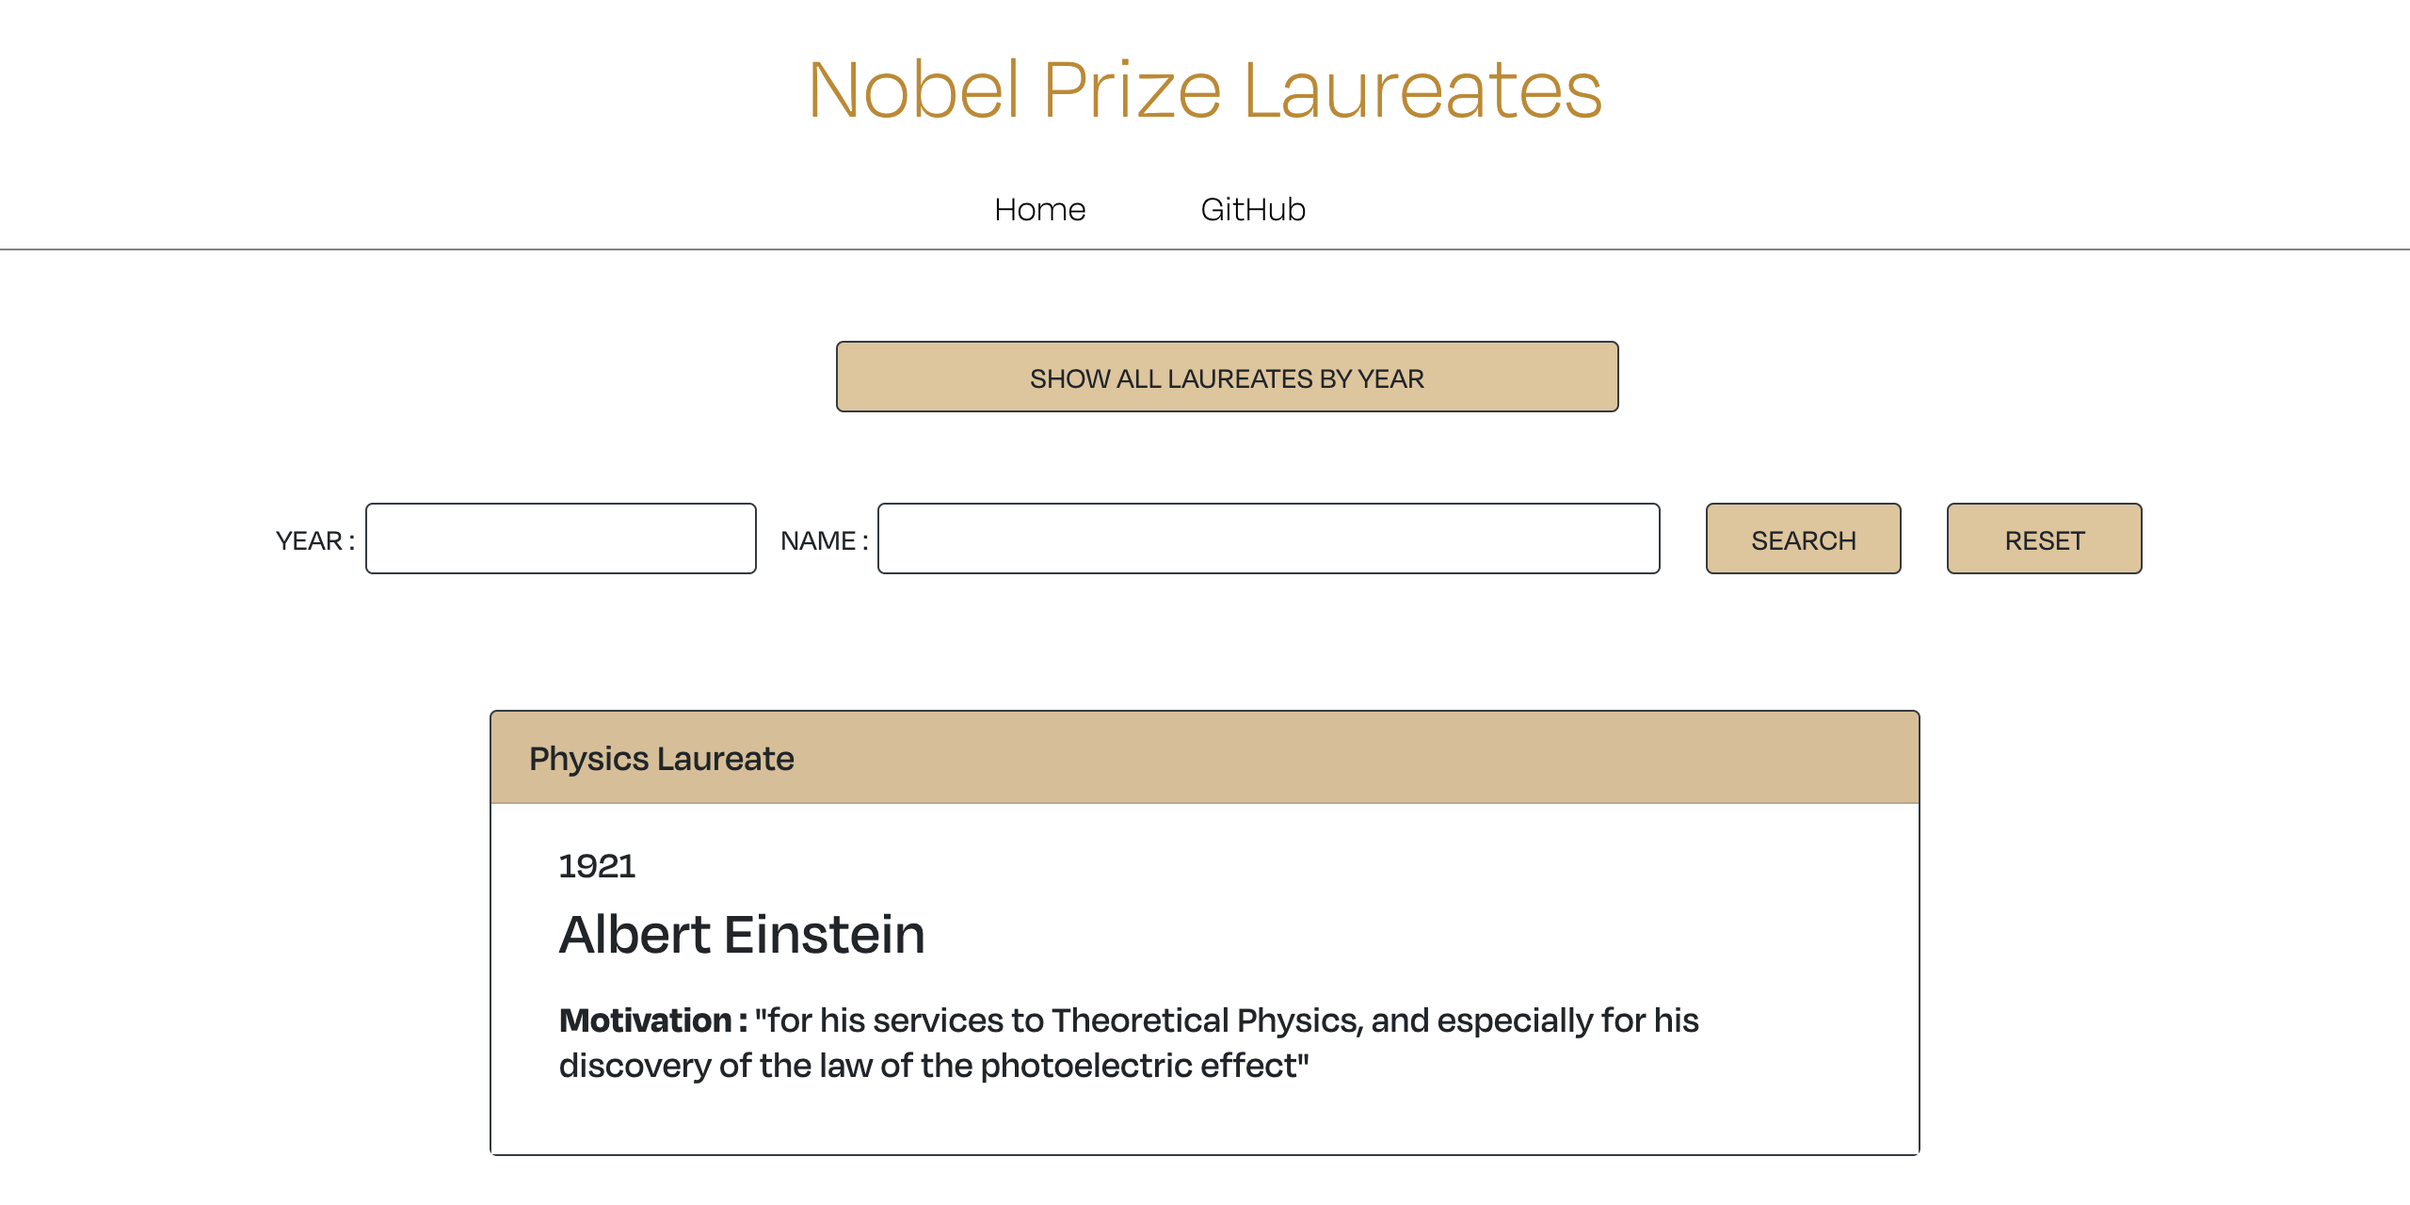
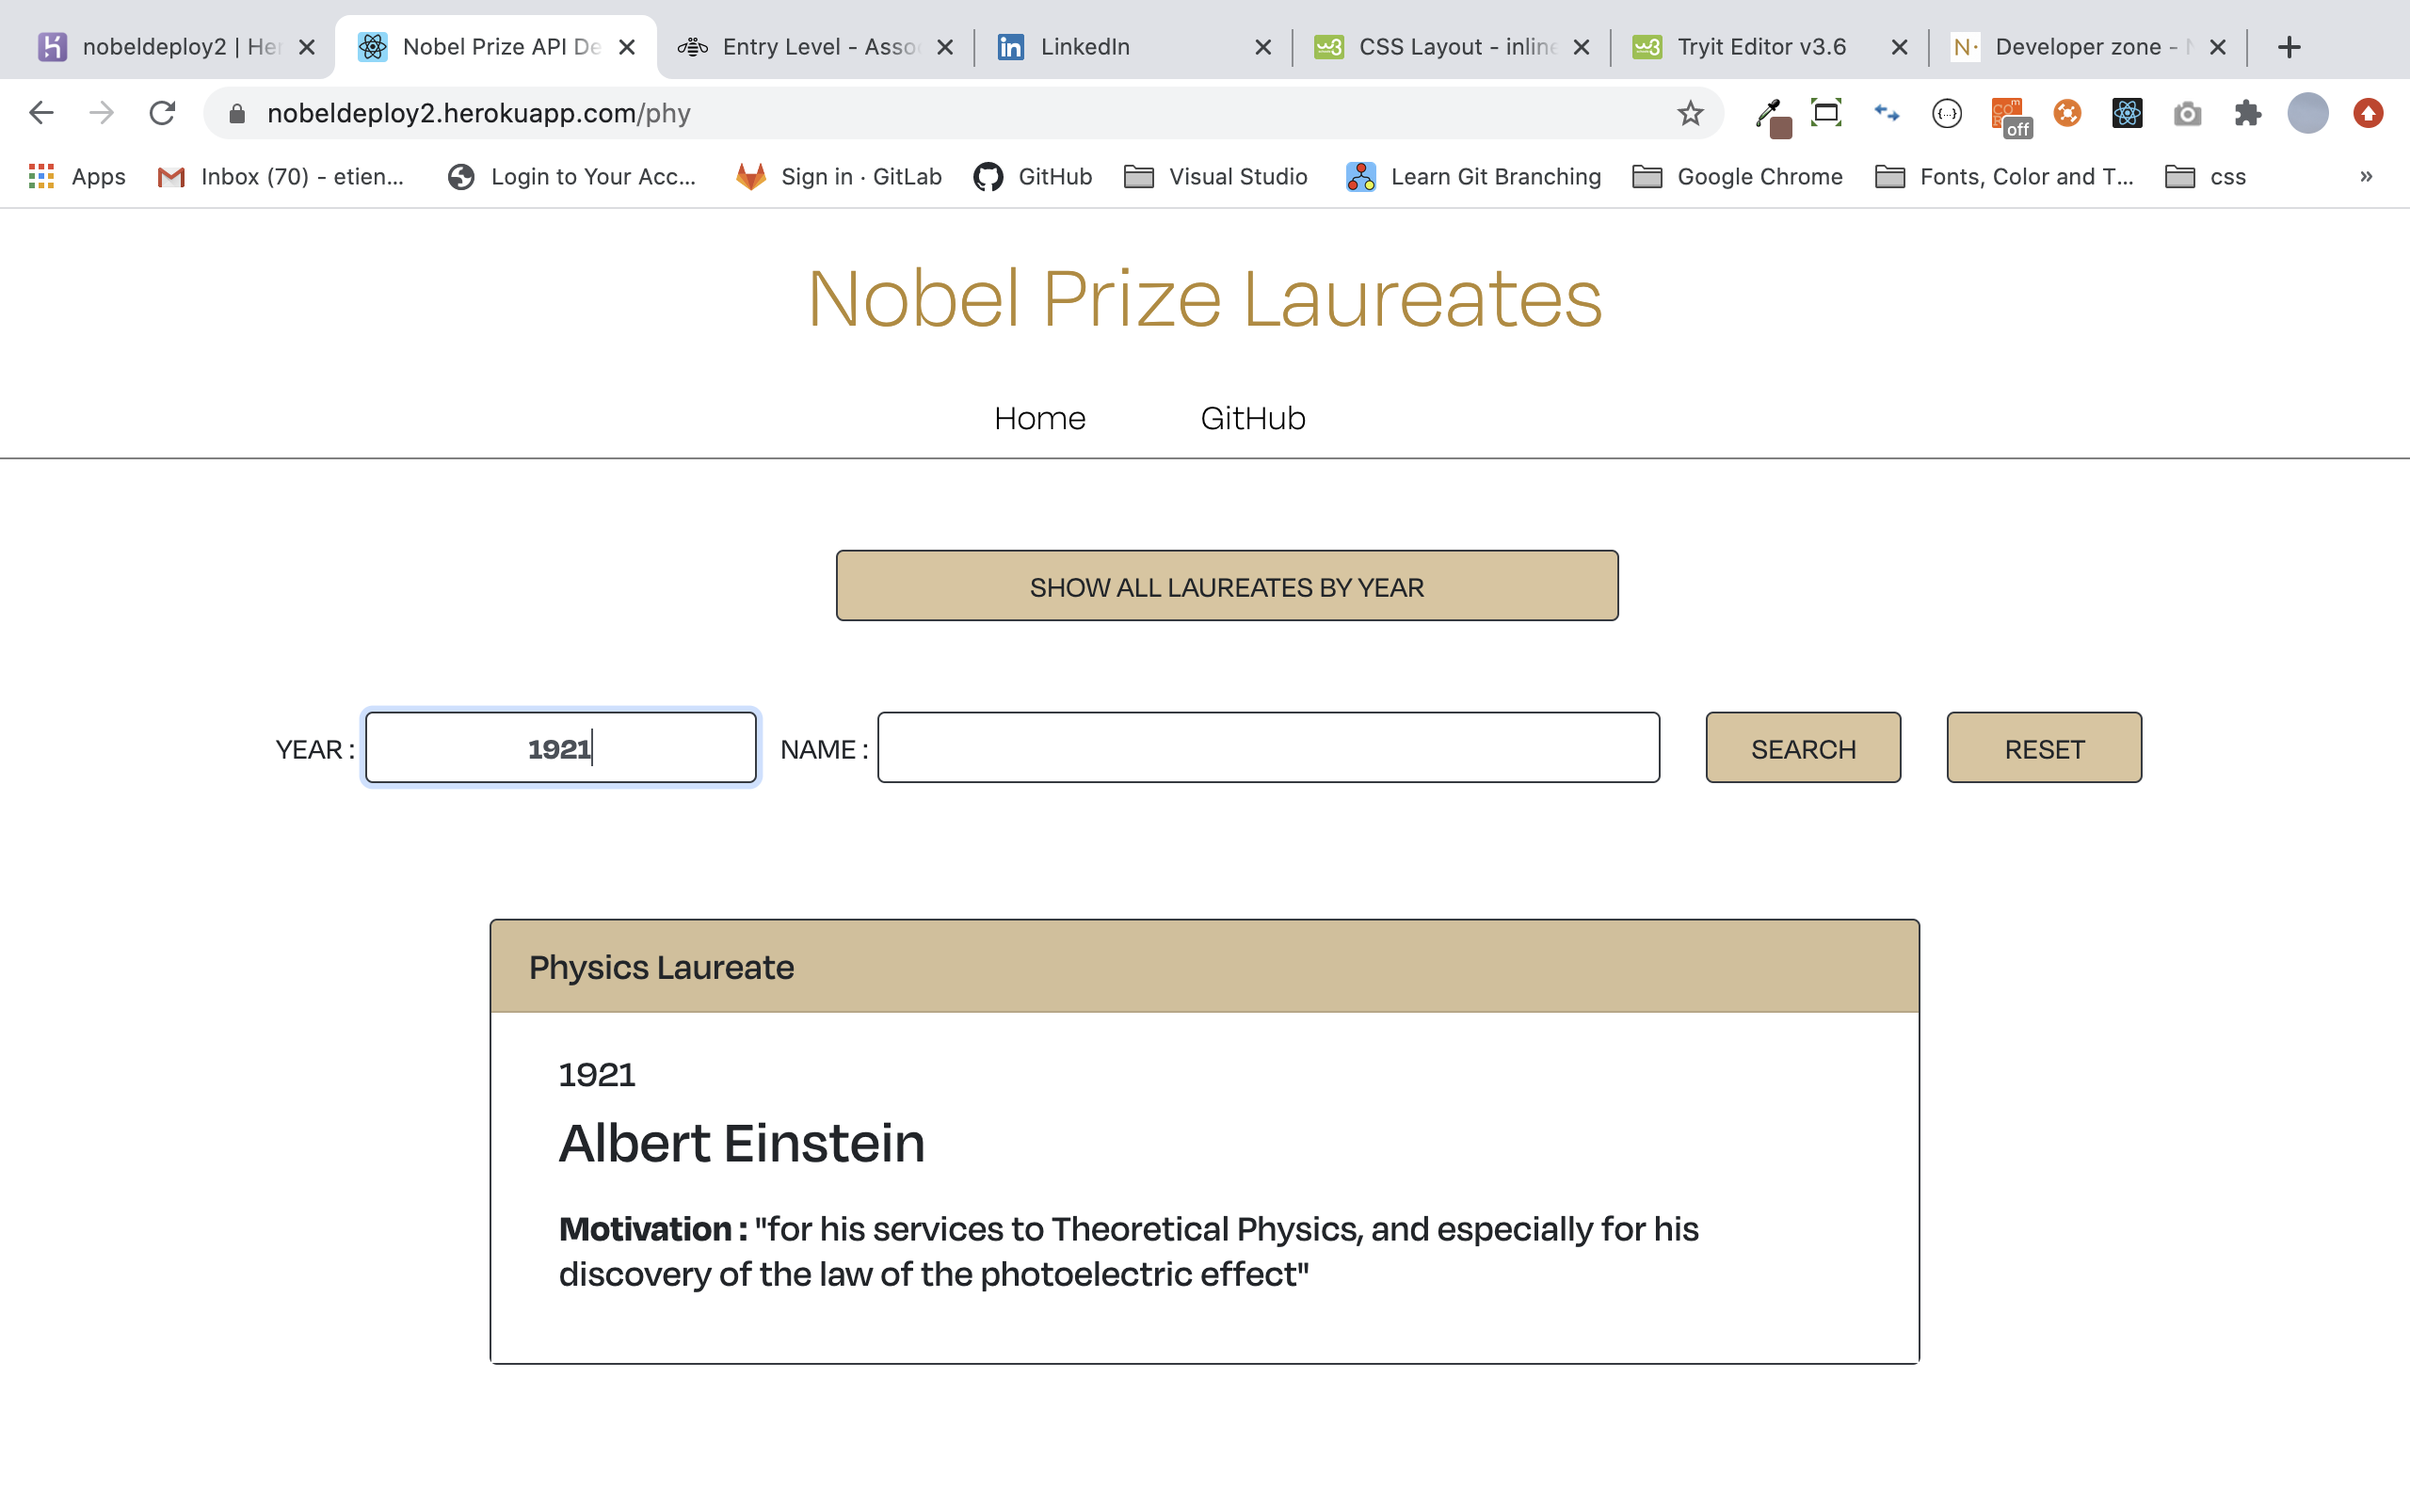
README.md to explain screencaptures

diff --git a/README.md b/README.md
@@ -1,11 +1,15 @@
-This app makes use of two open endpoints about the Nobel Prizes and the Nobel Laureates
-from Nobelprize.org website. 
-My goal was to use React to retrieve and display the data with a personal design using Radium and module.css files.
+The Nobel app makes use of two open endpoints about the Nobel Prizes and the Nobel Laureates from Nobelprize.org website. 
 
-The home page allows users to select the category of their choice:
+My goal was to use React to retrieve and display the data with a personal UI and Design using Radium and module.css files.
+
+The home page allows users to select the category of their choice :
 
 ![](assets/home.png)
 
-On the category page, the user has the choice to display all the laureates using one endpoint or do a search by Year or by Name using another endpoint:
+On the category page, the user has the choice to display all the laureates using one endpoint with the button "SHOW ALL LAUREATES BY YEAR" :
 
-![](assets/Search.png)
+![](assets/showall.png)
+
+Or to search by Year or by Name using another endpoint with the "SEARCH" button :
+
+![](assets/search.png)
